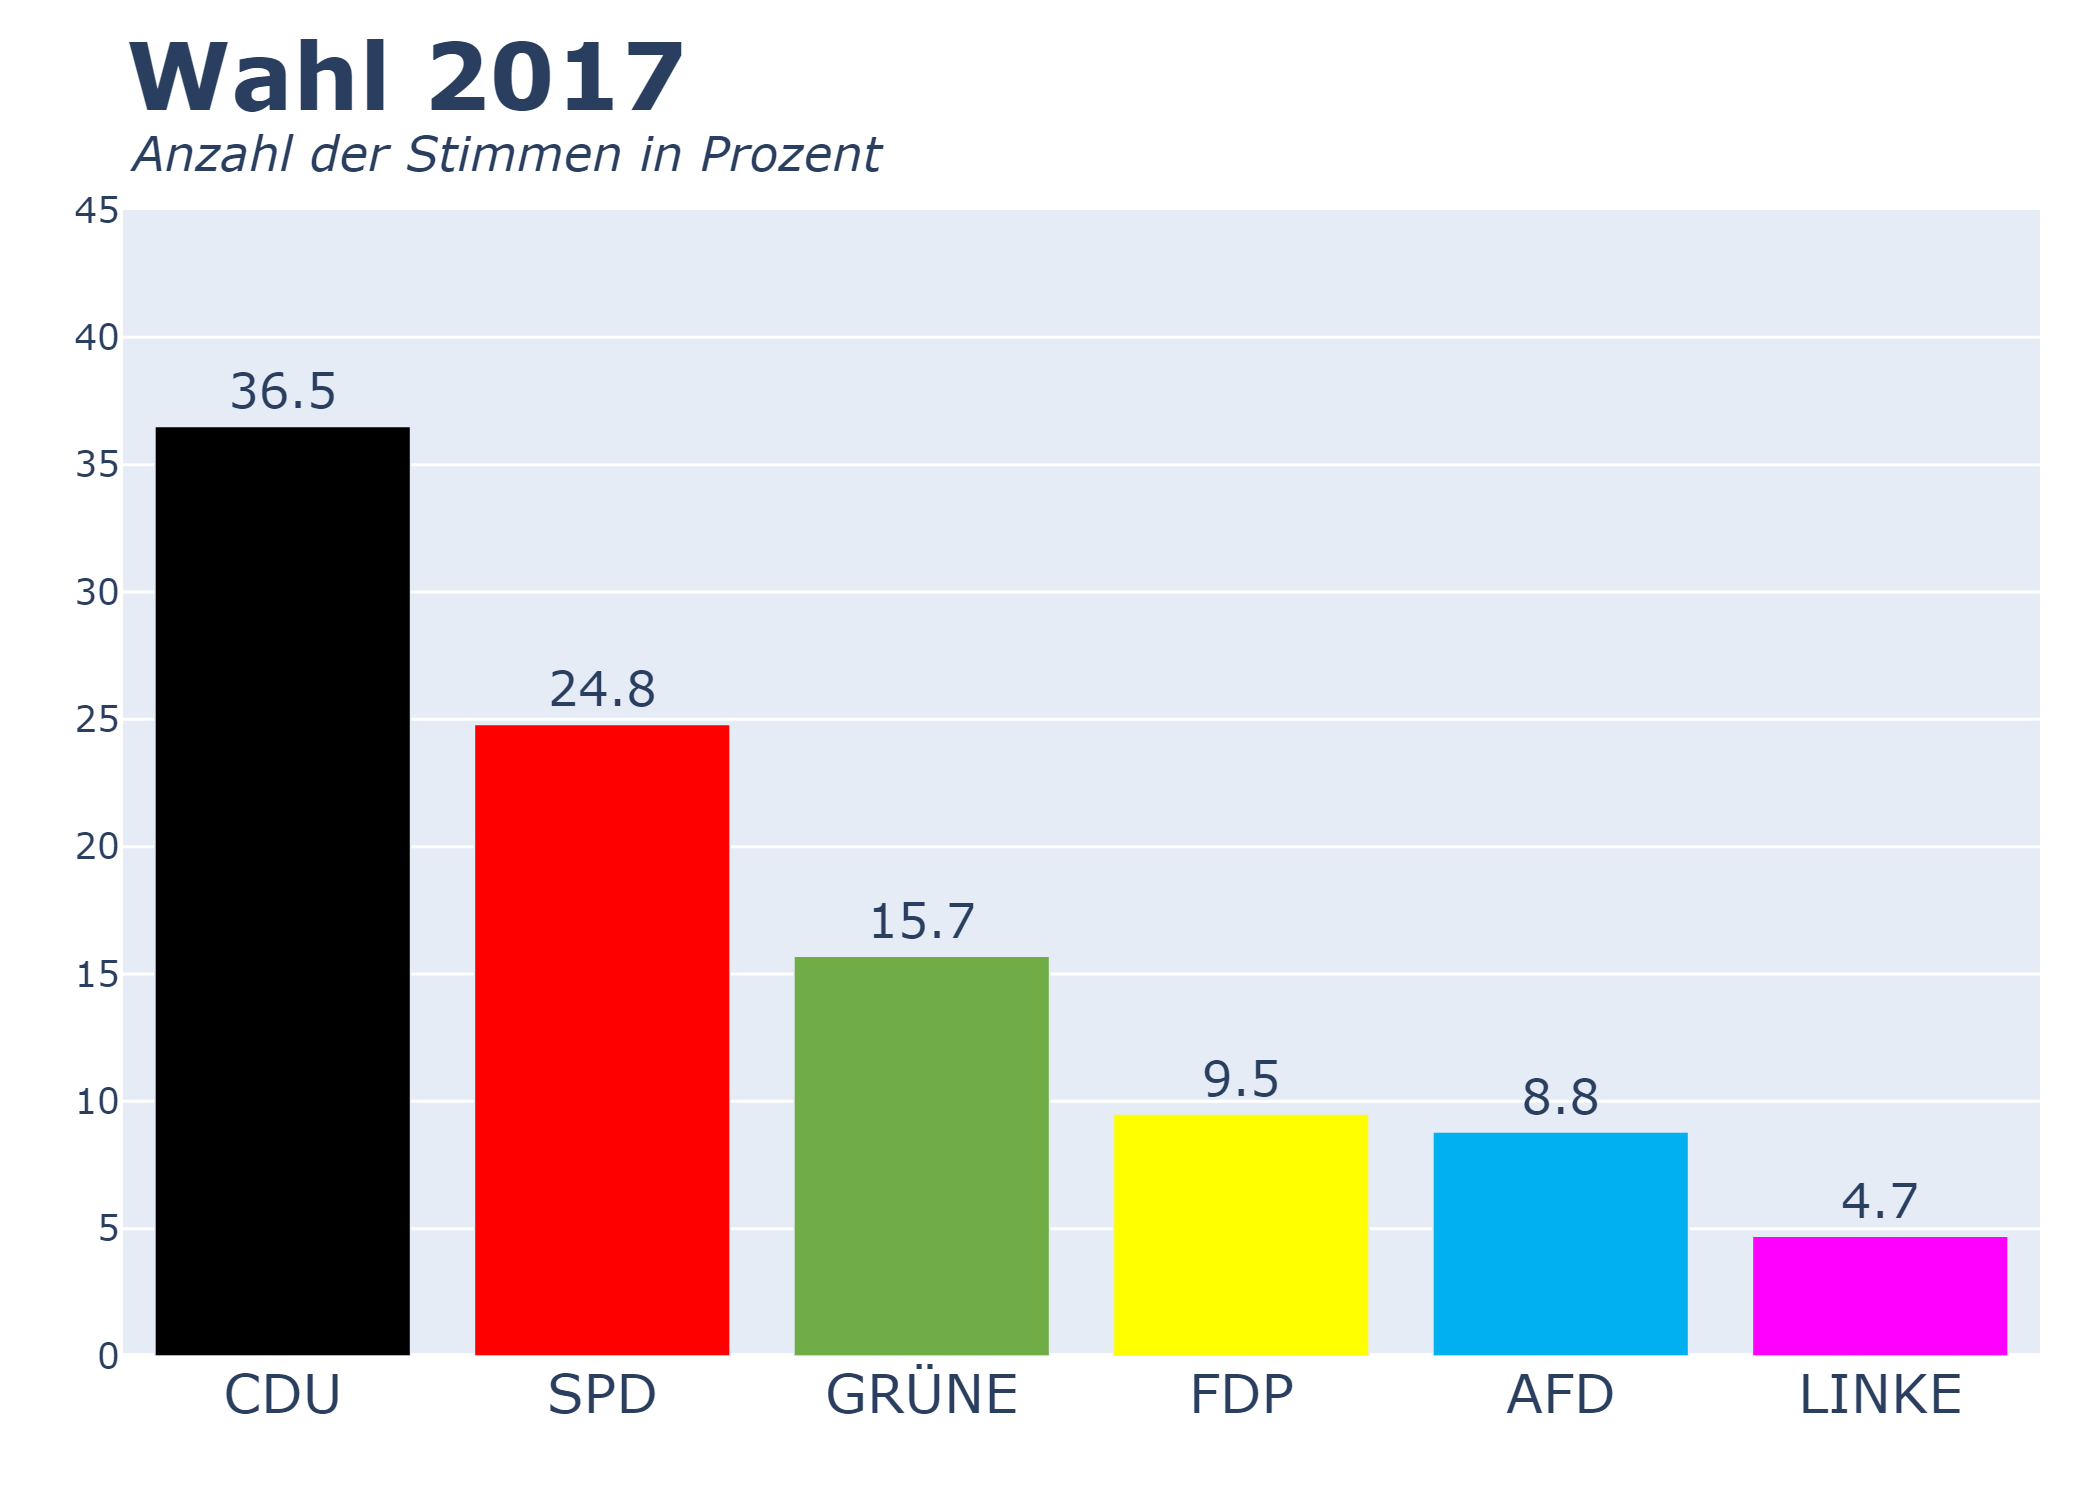
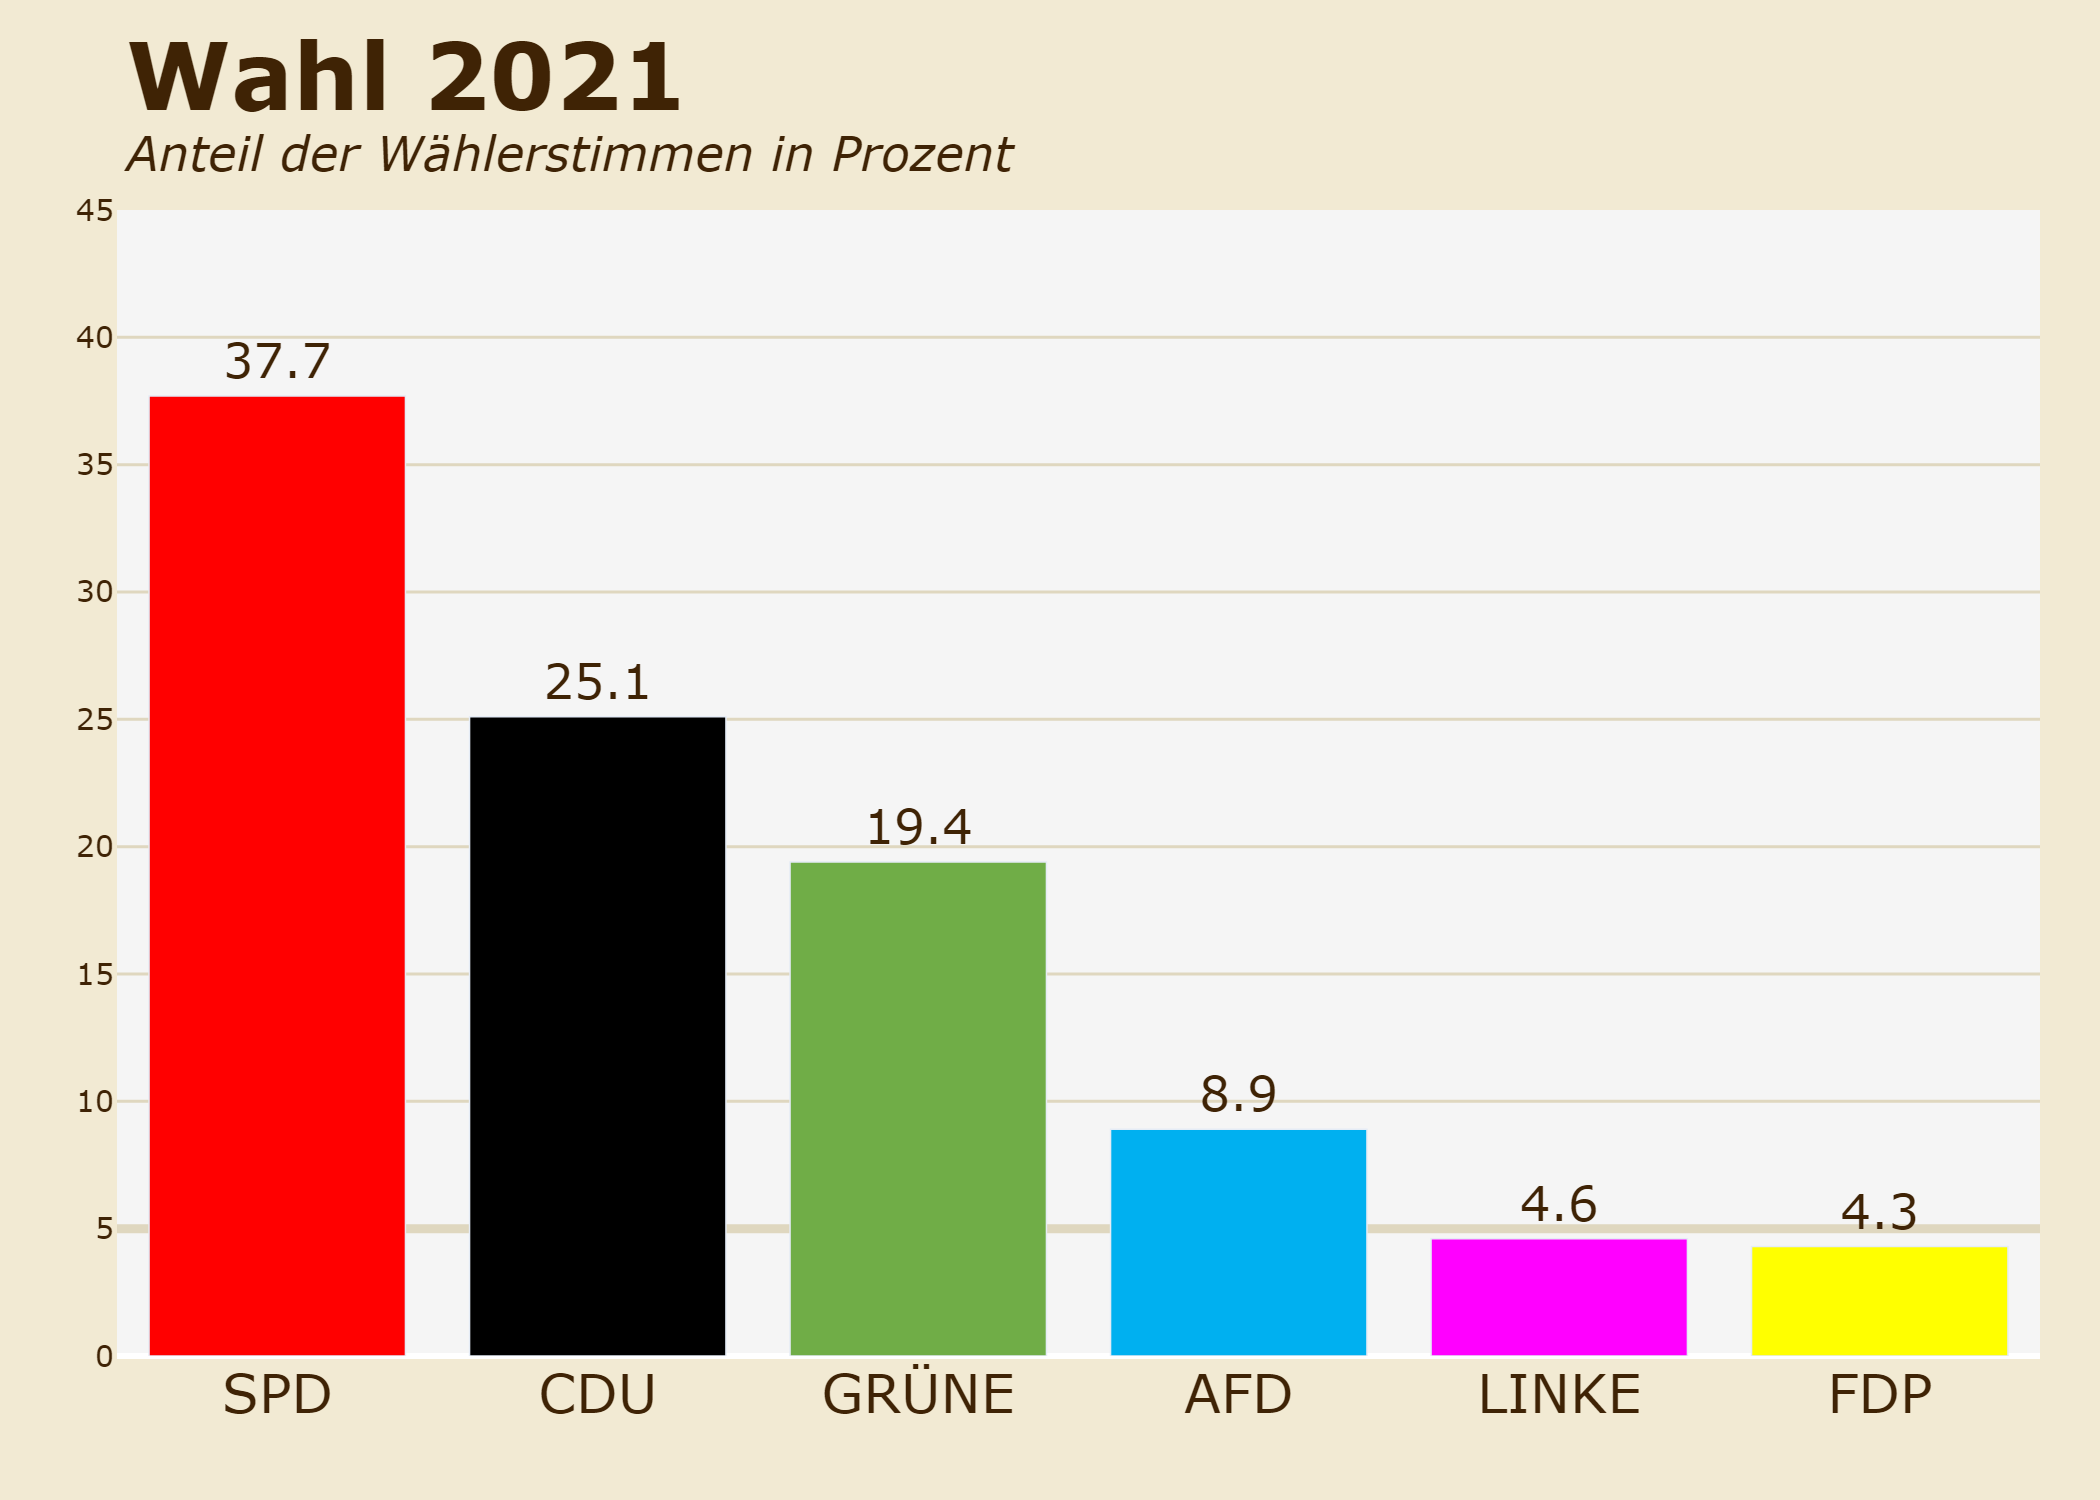
color sheming

diff --git a/votingData.py b/votingData.py
@@ -14,7 +14,7 @@ class VotingData:
         self.dataFrame = pd.read_csv(csvFile, sep=seperator)
 
         ###########################################################
-        # Variables
+        # Input Variables
         ###########################################################
 
         self.parliamentSeats = parliamentSeats
@@ -22,6 +22,20 @@ class VotingData:
         self.columnParty = columnParty
         self.columnSpectrum = columnSpectrum
         self.columnColor = columnColor
+        self.percentageLimit = percentageLimit
+
+        ###########################################################
+        # Styling Variable
+        ##########################################################
+        self.colors = {"background": "#F2EAD3",
+                       "diagram": "#F5F5F5",
+                       "title": "#3F2305",
+                       "subtitle": "#3F2305",
+                       "yaxis": "#3F2305",
+                       "xaxis": "#3F2305",
+                       "grid": "#DFD7BF",
+                       "values": "#3F2305",
+                       "threshold": "#DFD7BF"}
 
         yearsInDataFrame = sorted(
             self.dataFrame[self.columnYear].unique())
@@ -82,7 +96,7 @@ class VotingData:
                         ] = None
 
 ##############################################################################################################################
-##############################################################################################################################
+##### getCoalitions #########################################################################################################
 ##############################################################################################################################
 
     def getCoalitions(self, year, thresholdPolitcalDistance=300, deleteSubsets=True):
@@ -154,7 +168,7 @@ class VotingData:
         return dataCoalitions
 
 ##############################################################################################################################
-##############################################################################################################################
+##### getGraph ##############################################################################################################
 ##############################################################################################################################
 
     def getGraph(self, year, type, outputfile, title="VOTING", subtitle=""):
@@ -167,6 +181,12 @@ class VotingData:
         # format the column votings_relative to 1 decimal place
         printData["VOTINGS_RELATIVE"] = printData["VOTINGS_RELATIVE"].apply(
             lambda x: round(x, 1))
+        printData["VOTINGS_RELATIVE_DIFF"] = printData["VOTINGS_RELATIVE_DIFF"].apply(
+            lambda x: round(x, 1))
+
+        # for displaying purposes
+        partyColors = printData[self.columnColor].tolist()
+        titleText = title + " " + str(year)
 
         # for a mostly uniform look, the yaxis range is set based on the maximum value
         maxValue = printData["VOTINGS_RELATIVE"].max()
@@ -179,11 +199,11 @@ class VotingData:
         elif maxValue > 20:
             yRange = [0, 45]
 
-        if type == "BAR_RESULT":
-            # for displaying purposes
-            partyColors = printData[self.columnColor].tolist()
-            titleText = title + " " + str(year)
+        ############################################################################################
+        # BAR_RESULT
+        ############################################################################################
 
+        if type == "BAR_RESULT":
             # Creating the main bar graph
             barResult = plotly.bar(
                 printData,
@@ -197,10 +217,13 @@ class VotingData:
             # configure layout and other visuals
             barResult.update_layout(
                 title={"text": "<b>" + titleText +
-                       "</b>", "font": {"size": 31}, "x": 0.06, "y": 0.97},
+                       "</b>", "font": {"size": 31, "color": self.colors["title"]},  "x": 0.06, "y": 0.97},
+                paper_bgcolor=self.colors["background"],
+                plot_bgcolor=self.colors["diagram"],
+
                 showlegend=False,
                 margin={"t": 70, "b": 0, "l": 0, "r": 20},
-                yaxis=dict(range=yRange),
+                yaxis=dict(range=yRange, gridcolor=self.colors["grid"]),
                 annotations=[
                     dict(
                         x=0,
@@ -209,25 +232,84 @@ class VotingData:
                         yref="paper",
                         text="<i>"+subtitle+"</i>",
                         showarrow=False,
-                        font=dict(size=16)
+                        font=dict(size=16, color=self.colors["subtitle"])
                     )
                 ],
             )
-            barResult.update_xaxes(title="", tickfont=dict(size=18))
-            barResult.update_yaxes(title="", tickfont=dict(size=12))
+            barResult.update_xaxes(title="", tickfont=dict(
+                size=18, color=self.colors["xaxis"]))
+            barResult.update_yaxes(title="", tickfont=dict(
+                size=10, color=self.colors["yaxis"]))
             barResult.update_traces(
-                textfont_size=16, textposition="outside")
+                textfont_size=16, textposition="outside",  textfont_color=self.colors["values"])
+
+            # add line for 5% threshold
+            barResult.add_hline(y=self.percentageLimit, line_width=3,
+                                line_color=self.colors["threshold"], layer="below")
 
             # export as png
             image_bytes = to_image(barResult, format="png", scale=3)
             with open(outputfile, "wb") as f:
                 f.write(image_bytes)
 
+        ############################################################################################
+        # BAR_DIFFERENCE
+        ############################################################################################
+        if type == "BAR_DIFFERENCE":
+
+            # Creating the main bar graph
+            barDifference = plotly.bar(
+                printData,
+                x=self.columnParty,
+                y="VOTINGS_RELATIVE_DIFF",
+                color=self.columnParty,
+                color_discrete_sequence=partyColors,
+                text="VOTINGS_RELATIVE_DIFF",
+            )
+
+            # configure layout and other visuals
+            barDifference.update_layout(
+                title={"text": "<b>" + titleText +
+                       "</b>", "font": {"size": 31, "color": self.colors["title"]}, "x": 0.07, "y": 0.97},
+                showlegend=False,
+                paper_bgcolor=self.colors["background"],
+                plot_bgcolor=self.colors["diagram"],
+                margin={"t": 70, "b": 0, "l": 0, "r": 20},
+                yaxis=dict(range=[round(printData["VOTINGS_RELATIVE_DIFF"].min(
+                ), 0) - 2, round(printData["VOTINGS_RELATIVE_DIFF"].max(), 0) + 2], gridcolor=self.colors["grid"]),
+                annotations=[
+                    dict(
+                        x=0,
+                        y=1.08,
+                        xref="paper",
+                        yref="paper",
+                        text="<i>"+subtitle+"</i>",
+                        showarrow=False,
+                        font=dict(size=16, color=self.colors["subtitle"])
+                    )
+                ],
+            )
+            barDifference.update_xaxes(title="", tickfont=dict(
+                size=18, color=self.colors["xaxis"]))
+            barDifference.update_yaxes(title="", tickfont=dict(
+                size=10, color=self.colors["yaxis"]))
+            barDifference.update_traces(
+                textfont_size=16, textposition="outside", textfont_color=self.colors["values"])
+
+            # export as png
+            image_bytes = to_image(barDifference, format="png", scale=3)
+            with open(outputfile, "wb") as f:
+                f.write(image_bytes)
+
+##############################################################################################################################
+##############################################################################################################################
+##############################################################################################################################
+
 
 votingData = VotingData("data/exampleData.csv", "YEAR",
                         "VOTINGS", "PARTY_SHORT", "PARTY_SPEC", "PARTY_COLOR", 120)
-# print(votingData.dataFrame)
-# print(votingData.getCoalitions(
-#    2021, thresholdPolitcalDistance=300, deleteSubsets=True))
-votingData.getGraph(2017, "BAR_RESULT",
-                    outputfile="output/barResult.png", title="Wahl", subtitle="Anzahl der Stimmen in Prozent")
+
+votingData.getGraph(2021, "BAR_RESULT",
+                    outputfile="output/barResult.png", title="Wahl", subtitle="Anteil der Wählerstimmen in Prozent")
+votingData.getGraph(2021, "BAR_DIFFERENCE",
+                    outputfile="output/barDifference.png", title="Wahl", subtitle="Prozenzpunkte im Vergleich zur letzten Wahl")

diff --git a/readme.md b/readme.md
@@ -1,9 +1,12 @@
 # Voting Graph Portfolio
-Create a nice one-page portfolio of the most relevant graphs for a democratic election (parliament elections). This tool is loosly based on german elections. Some rulesets may differ from the reality. This is just a hobby project for practicing data handling and data visualization.
+**The Voting Graph Portfolio** is a python class that allows to create different voting charts/graphs. This class takes a pandas dataframe as input and processes the data in order to display the graphs accordingly.
+This tool is loosly based on german elections. Some rulesets may differ from the reality. This is just a hobby project for practicing data processing and data visualization.
 
 ## Examples
 ###  Bar Graph for Results
 ![Example Chart](https://github.com/ricochan/VotingGraphPortfolio/blob/main/output/barResult.png "Example Chart")
+### Bar Graph for comparison to previous votings
+![Example Chart](https://github.com/ricochan/VotingGraphPortfolio/blob/main/output/barDifference.png "Example Chart")
 
 ## Goals
 :white_check_mark: done / implemented 
@@ -22,10 +25,13 @@ Create a nice one-page portfolio of the most relevant graphs for a democratic el
 
 ### Data Visualization
 * :white_check_mark:  create a bar graph with results
-* :large_orange_diamond:  create a bar graph with results compared to last year
+* :white_check_mark:  create a bar graph with results compared to last year
 * :large_orange_diamond:  create a bar graph with seat distribution in parliament
 * :large_orange_diamond:  create a visulisation for possible coalitions
 * :red_circle: create a pdf/png with all graphs combined
+
+### Extra Goals
+* :large_orange_diamond:  add styling options/method for customization
 
 ### Finish Touch
 * :red_circle: review code and optimize
